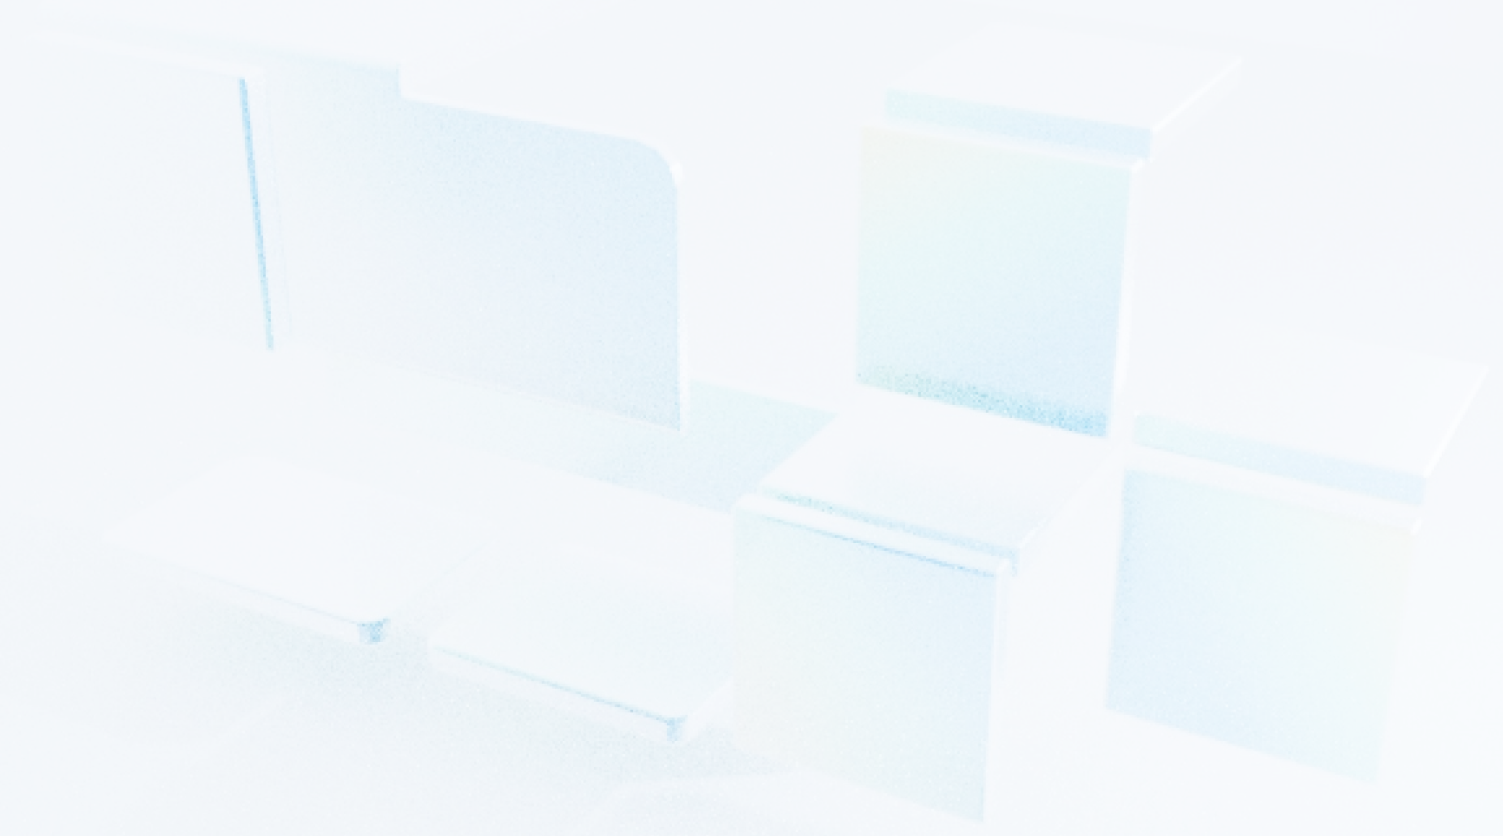
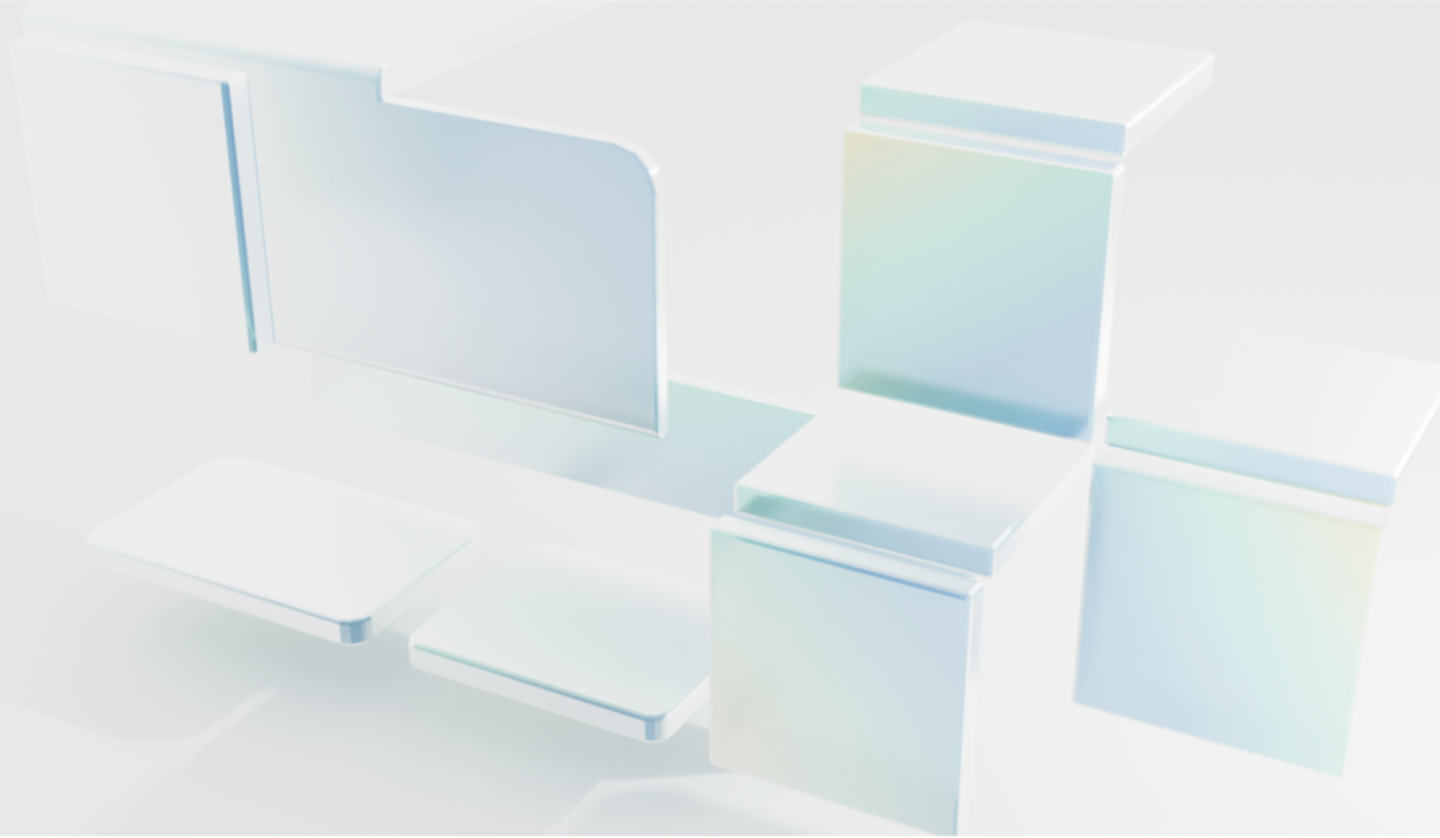
feat: first page decent

Changed region(s): [[0.0625, 0.0622, 0.6875, 1.0], [0.5625, 0.0933, 0.9688, 0.933]]

diff --git a/styles.css b/styles.css
@@ -58,20 +58,12 @@ img {
     display: block;
 }
 
-.register-link {
-    position: absolute;
-    left: 50%;
-    top: 49.5vw;
-    transform: translate(-50%, -50%);
-}
-
 .register-link:hover {
     cursor: pointer;
 }
 
 .register-link img {
     width: 15vw;
-    height: auto;
 }
 
 header {
@@ -80,7 +72,7 @@ header {
     flex-direction: row;
     background: rgba(255, 255, 255, 0.01);
     backdrop-filter: blur(10px);
-    width: 100vw;
+    width: 100%;
     top: 0; 
     left: 0;
     padding-left: 16px;
@@ -130,14 +122,122 @@ nav {
 
 .hero-section {
     position: relative;
-    width: 100vw;
-    height: 100vh;
-    background-image: url('./imgs/hero-background.png');
-    object-fit: cover;
+    width: 100%;
+    background-size: cover;
+    background-position: center;
+
+    display: flex;
+    flex-direction: column;
+    align-items: center;
+    justify-content: center;
 }
 
 .hero-content {
-    position: absolute;
-    padding-top: 80px;
+    height: 100vh;
+    width: 100%;
+    position: inherit;
+    z-index: 10;
+    display: flex;
     text-align: center;
+    flex-direction: column;
+    align-items: center;
+    justify-content: center;
+    height: 100vh;
+
+    background: url("./imgs/hero-background.png") lightgray 50% / cover no-repeat;
+    backdrop-filter: blur(1px);
+}
+
+.hero-title {
+    width: 50vw;
+    background: transparent;
+}
+
+.hero-subtitle {
+    color: #000;
+    font-family: "PPRader";
+    font-size: 32px;
+    font-style: normal;
+    font-weight: 400;
+    line-height: normal;
+
+    display: inline-flex;
+    align-items: center;
+    gap: 8px;
+}
+
+.hero-transition {
+    position: absolute;
+    top: calc(100vh - 100px);
+    z-index: 20;
+    height: 200px;
+    width: 100%;
+    background: #F4F2F3;
+    filter: blur(50px);
+}
+.hero-transition-spacer {
+    height: 100px;
+}
+
+.inline-scottydog {
+    display: flex;
+    width: 38px;
+    height: 32px;
+    justify-content: center;
+    align-items: center;
+}
+
+.hero-description {
+    color: #000;
+    text-align: center;
+    font-family: "Spline Sans";
+    font-size: 24px;
+    font-style: normal;
+    font-weight: 400;
+    line-height: 34px; /* 141.667% */
+    
+    width: calc(max(25vw, 500px));
+}
+
+.hero-description-text {
+    color: #000;
+    font-family: "PPRader", sans-serif;
+    font-size: 20px;
+    font-style: normal;
+    font-weight: 400;
+    line-height: 1.5;
+    text-align: center;
+}
+
+.section-divider {
+    width: 80%;
+    border: none;
+    border-top: 1px solid #C4C4C4;
+    margin: 40px auto;
+}
+
+.theme-section {
+    padding: 80px 0;
+    display: flex;
+    flex-direction: column;
+    align-items: center;
+    gap: 40px;
+}
+.theme-title {
+    color: #000;
+    font-family: "PPRader", sans-serif;
+    font-size: 36px;
+    font-style: normal;
+    font-weight: 700;
+    line-height: normal;
+}
+.theme-description {
+    color: #000;
+    font-family: "PPRader", sans-serif;
+    font-size: 20px;
+    font-style: normal;
+    font-weight: 400;
+    line-height: 1.5;
+    text-align: center;
+    max-width: 800px;
 }

diff --git a/index.html b/index.html
@@ -34,10 +34,50 @@
     <main>
       <section class="hero-section">
         <div class="hero-content">
-          <h1 class="hero-title">TartanHacks 2026</h1>
-          <p class="hero-subtitle">Carnegie Mellon University's Premier Hackathon</p>
-          <a href="#" class="hero-cta-button">Register Now</a>
+          <div class="hero-title">
+            <img src="./imgs/title-text.png" alt="TartanHacks 2026" class="hero-title" />
+            <p class="hero-subtitle">Presented by ScottyLabs <img src="./imgs/scottylabs-logo.png" alt="ScottyLabs Logo" class="inline-scottydog" /></p>
+          </div>
+          <a href="#" class="register-link">
+            <img src="./imgs/register-button.png" alt="Register Now" class="register-button" /> 
+          </a>
         </div>
+        <div class="hero-transition"></div>
+        <div class="hero-transition-spacer"></div>
+        <div class="hero-description">
+          <p class="hero-description-text">
+            TARTANHACKS is the largest Hackathon in Pittsburgh! Organized by ScottyLabs, it's a 24-hour hackathon where participants from all over the country create innovative projects. Come on over to hack, learn from our workshops and incredible speakers, and meet other hackers.
+          </p>
+        </div>
+      </section>
+      <hr class="section-divider" />
+      <section class="theme-section">
+        <div class="theme-head">
+          <h2 class="theme-title">This year's theme is...</h2>
+          <p class="theme-description">
+            MOSAIC
+          </p>
+        </div>
+        <div class="theme-description">
+          <p>For 24 hours, step into a world built from fragments,floating tiles, ideas that refract and snap into place.</p>
+          <p>Nothing arrives whole; everything begins as a piece. You and your team gather scattered bits of vision, skill, and code, assembling them into something greater than any single part. Every insight becomes a tile and every teammate a new color.  As the hours pass, the picture will sharpen, a Mosaic taking shape.</p>
+
+          <p>Enter with fragments. </p>
+          <p>Leave with something whole.</p>
+
+        </div>
+      </section>
+      <section class="schedule-section">
+        <h2 class="section-title">Schedule</h2>
+        <p class="section-description">Stay tuned for the full schedule!</p>
+      </section>
+      <section class="speakers-section">
+        <h2 class="section-title">Speakers</h2>
+        <p class="section-description">Stay tuned for our amazing speaker lineup!</p>
+      </section>
+      <section class="sponsors-section">
+        <h2 class="section-title">Sponsors</h2>
+        <p class="section-description">TODO</p>
       </section>
     </main>
   </body>
